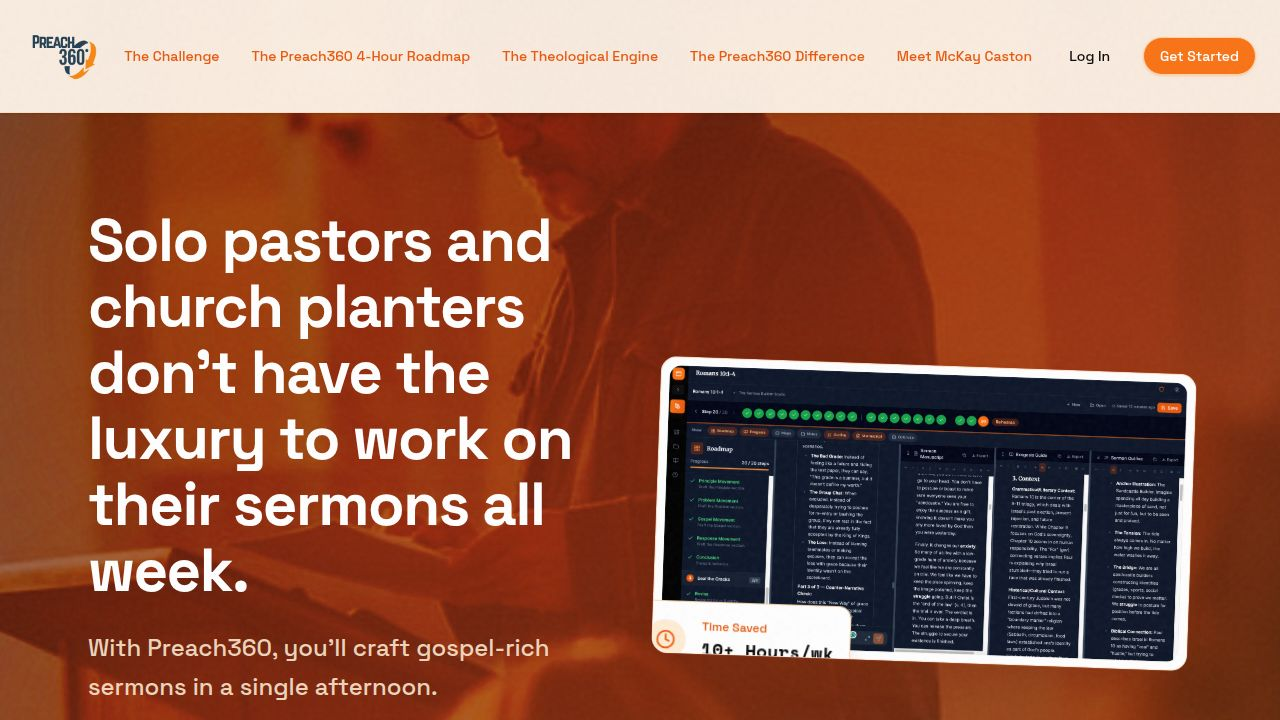
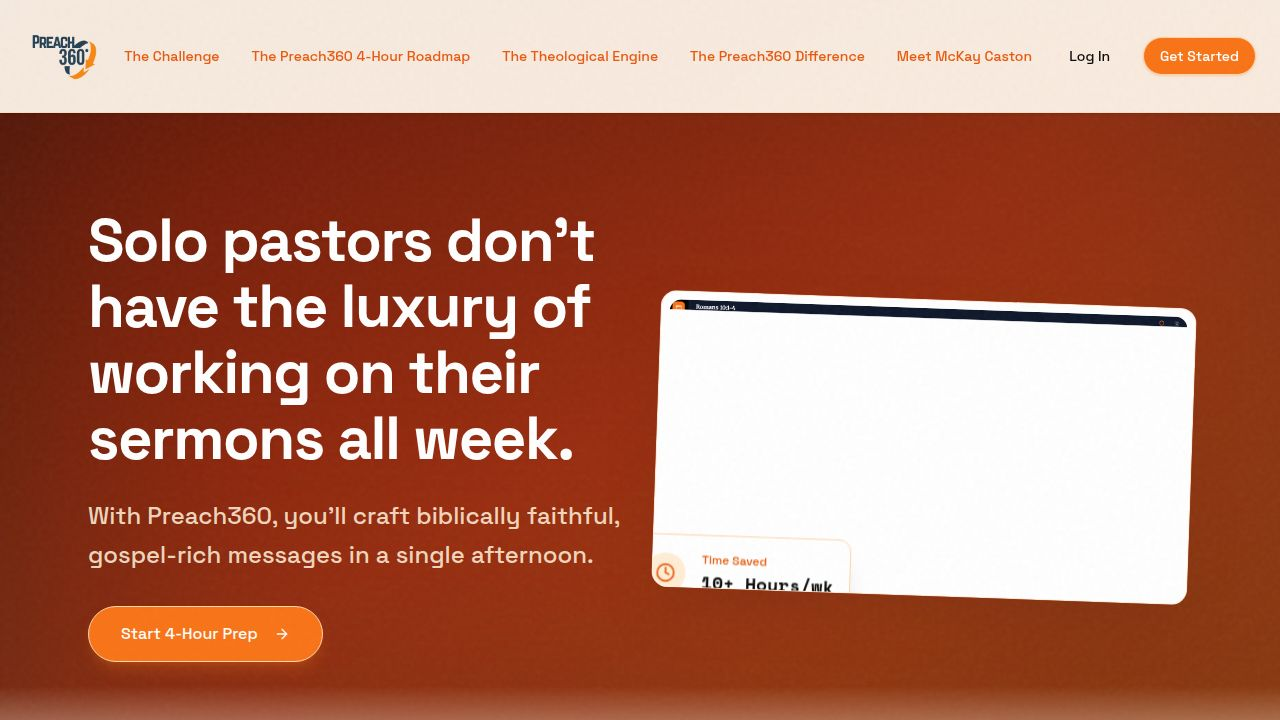
Update the website's main heading to describe the sermon-building OS
Replace the existing header and introductory paragraph in the home page component to introduce Preach360 as an all-in-one, web-based sermon-building OS.

Replit-Commit-Author: Agent
Replit-Commit-Session-Id: b40ebc65-716c-42ff-8a29-f355e8ec55d6
Replit-Commit-Checkpoint-Type: full_checkpoint
Replit-Commit-Event-Id: bf87c3e9-acd7-4934-972c-91bcb2b17227
Replit-Commit-Screenshot-Url: https://storage.googleapis.com/screenshot-production-us-central1/52b2e9a9-1aca-4f31-b761-2a0e85fbc987/b40ebc65-716c-42ff-8a29-f355e8ec55d6/XCMbdp9
Replit-Helium-Checkpoint-Created: true

diff --git a/client/src/pages/home.tsx b/client/src/pages/home.tsx
@@ -83,11 +83,10 @@ export default function Home() {
       {/* 1. THE PROBLEM */}
       <section className="py-16 md:py-20 bg-background relative" id="problem">
         <div className="container mx-auto px-4 max-w-6xl text-center">
-          <h2 className="text-3xl md:text-5xl font-bold mb-8 font-drama text-foreground">If sermon prep is taking you all week...</h2>
+          <h2 className="text-3xl md:text-5xl font-bold mb-8 font-drama text-foreground">Preach360 is an all-in-one, web-based sermon-building OS.</h2>
           
           <div className="text-lg md:text-xl text-muted-foreground leading-relaxed max-w-4xl mx-auto space-y-6">
             <div className="text-lg md:text-xl space-y-6 text-left md:text-center text-muted-foreground">
-              <p>Preach360 is a web application that serves as a complete sermon-building operating system.</p>
               <p>As a Socratic preaching coach, Preach360 doesn't do the work for you. It does the work with you, guiding you down a pre-cleared path from raw exegesis to a complete draft in 4 hours or less.</p>
               
               <div className="mt-12 relative rounded-2xl overflow-hidden shadow-2xl border border-border bg-white p-2">
